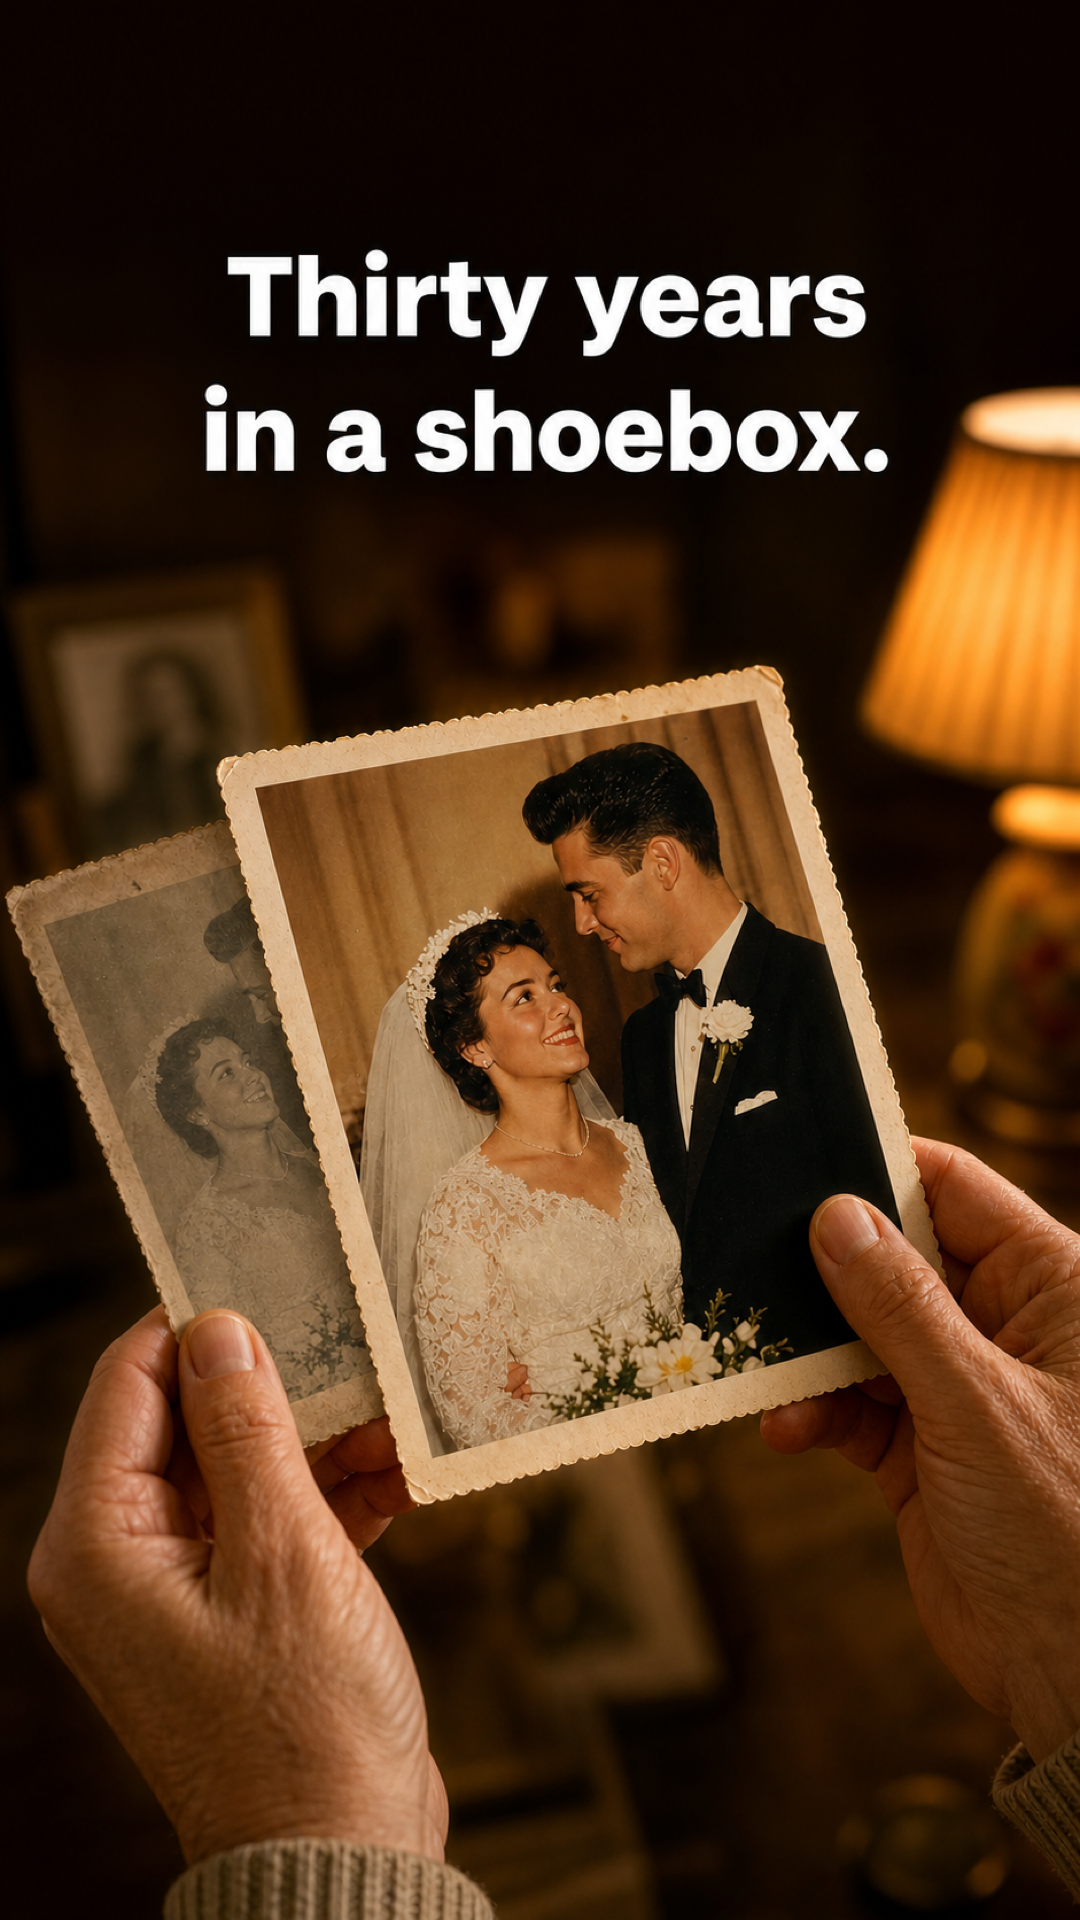
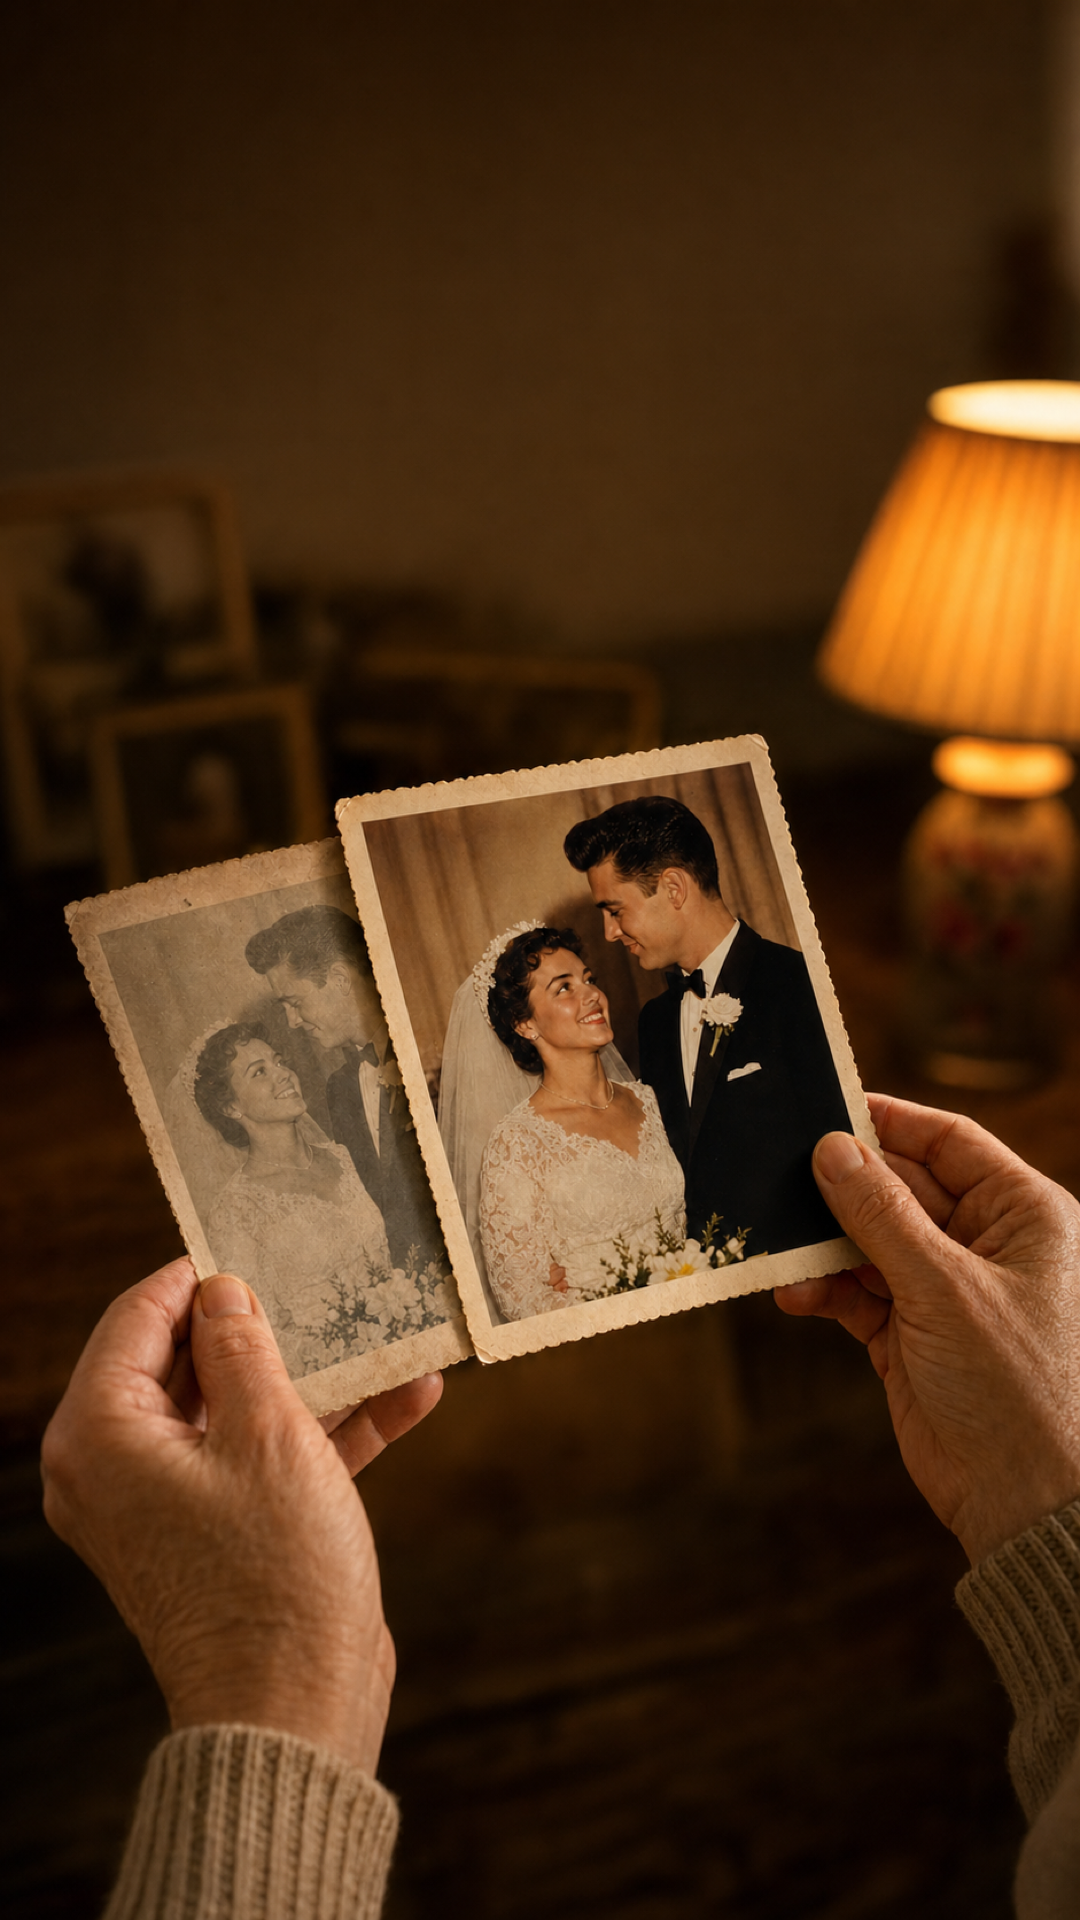
wave-04: real post kits and participation kit under the new deliverable contract
Rebuilds readout.rollouts for both SCALE arms against the redefined contract: all 7
channel cuts (v2's tiktok/instagram/x/in-app profile surface, v3's tiktok/instagram/x)
now carry a full postKit (caption/hashtags/altText/postingNote), v3's ("The Recreation",
angleType ugc-loop) draft carries a participationKit (mechanic/creatorShotList styled
after references/meta.md's Tier 1 30x-product-to-ugc corpus/seedCaptions/creditRule) in
place of pretending an AI still is real UGC, and v3's instagram ugc-still channel cut is
now labeled illustrativeLabel: "template preview, illustrative" rather than passed off as
real user content.

Both TikTok cover stills (TT_CONV_.../TT_ENGT_...) are regenerated via codex exec with an
explicit no-text constraint, replacing the old baked-headline versions; hook copy now
ships only through postKit captions and the pending video channel's future drawtext pass.

Both video channels' real mp4 render is BLOCKED on the libtv CLI account not actually
being write-authorized (project create / account info return 401/10001 despite a written
credentials.json; read-only endpoints like project list and model search work). Per the
no-fake-motion instruction, assetPath/videoDurationSec stay null rather than falling back
to a zoompan pan-and-zoom trick; coverPath holds the no-text cover, and a productionNote
records the block and the resume path (see scratchpad/lane32-STATE.md). report.html
[…]

diff --git a/waves/wave-04/assets/rollout/AGENTS.md b/waves/wave-04/assets/rollout/AGENTS.md
@@ -5,13 +5,13 @@
 APP_CONV_MOF_EVG_STIL_THEC_THEWED_ANYO_V04.png: The First Dance, Again 变体的 1:1 应用内提示卡，以居中修复婚礼照和“Restore a photo”短文案适配圆形裁切。
 IG_CONV_MOF_EVG_STIL_THEC_THEWED_ANYO_V04.png: The First Dance, Again 变体的 1:1 Instagram 纪实静态图，以厨房桌边手持同一张修复婚礼照呈现自然家庭回忆，无文字与品牌元素。
 IG_ENGT_BOF_LOOP_STIL_COUP_THEWED_COUP_V04.png: The Recreation 变体的 1:1 Instagram 手机抓拍静态图，保留参考情侣、厨房举抱重现与右下角微型 “credit” 标签。
-TT_CONV_MOF_EVG_STIL_THEC_THEWED_ANYO_V04.png: The First Dance, Again 变体的 9:16 TikTok 封面帧，顶部大字 “Thirty years in a shoebox.”，下方以老年双手展示同一对新人的褪色原照与暖色修复婚照。
-TT_ENGT_BOF_LOOP_STIL_COUP_THEWED_COUP_V04.png: The Recreation 变体的 9:16 TikTok 封面帧，以顶部婚礼剪影参考、底部同一情侣的居家复刻和 “Same pose. Your house.” 文案建立前后呼应。
+TT_CONV_MOF_EVG_STIL_THEC_THEWED_ANYO_V04.png: The First Dance, Again 变体的 9:16 TikTok 纯摄影封面帧，以老年双手在下方三分之二区域展示同一对新人的褪色原照与暖色修复婚照，上方保留无文字负空间。
+TT_ENGT_BOF_LOOP_STIL_COUP_THEWED_COUP_V04.png: The Recreation 变体的 9:16 TikTok 纯摄影封面帧，以上方婚礼剪影和下方同一情侣的厨房举抱复刻建立姿势呼应，仅保留右下角微型 “credit” 标签。
 XTW_CONV_MOF_EVG_STIL_THEC_THEWED_ANYO_V04.png: The First Dance, Again 变体的 16:9 X/Twitter 静帧，右侧保留单张修复婚礼照，左侧呈现钩子文案 “They danced to this once. Watch it again.”。
 XTW_ENGT_BOF_LOOP_STIL_COUP_THEWED_COUP_V04.png: The Recreation 变体的 16:9 X/Twitter 编辑静帧，以婚礼剪影与同一情侣的厨房复刻并置，并在右侧负空间呈现钩子文案 “Your kitchen works fine.”。
 
-资产契约：渠道成品使用 PNG；APP 提示卡使用 1:1 且关键信息集中于安全圆内；Instagram 纪实静态图使用 1:1 与自然手机摄影质感，仅成员条目明确登记时允许微型 credit 标签；TikTok 封面使用 1080×1920，标题必须与成员条目逐字一致；X/Twitter 静帧使用 16:9，标题必须与成员条目逐字一致；保留各自源图的人物、姿势与环境身份锚点；不得含品牌标识、水印或平台 UI；二进制文件不承载 L3 头部，其视觉职责在此登记。
+资产契约：渠道成品使用 PNG；APP 提示卡使用 1:1 且关键信息集中于安全圆内；Instagram 纪实静态图使用 1:1 与自然手机摄影质感，仅成员条目明确登记时允许微型 credit 标签；TikTok 封面使用 1080×1920，仅成员条目明确登记时允许标题且必须逐字一致；X/Twitter 静帧使用 16:9，标题必须与成员条目逐字一致；保留各自源图的人物、姿势与环境身份锚点；不得含品牌标识、水印或平台 UI；二进制文件不承载 L3 头部，其视觉职责在此登记。
 
-变更日志：2026-07-12 建立 rollout 资产地图并登记婚礼照片修复提示卡；登记两张 TikTok 9:16 封面帧；登记两张 X/Twitter 16:9 静帧；登记两张 Instagram 1:1 厨房纪实静态图。
+变更日志：2026-07-12 建立 rollout 资产地图并登记婚礼照片修复提示卡；登记两张 TikTok 9:16 封面帧；登记两张 X/Twitter 16:9 静帧；登记两张 Instagram 1:1 厨房纪实静态图；将 TT_CONV 与 TT_ENGT 封面更新为无文案纯摄影版本。
 
 [PROTOCOL]: 变更时更新此头部，然后检查 AGENTS.md